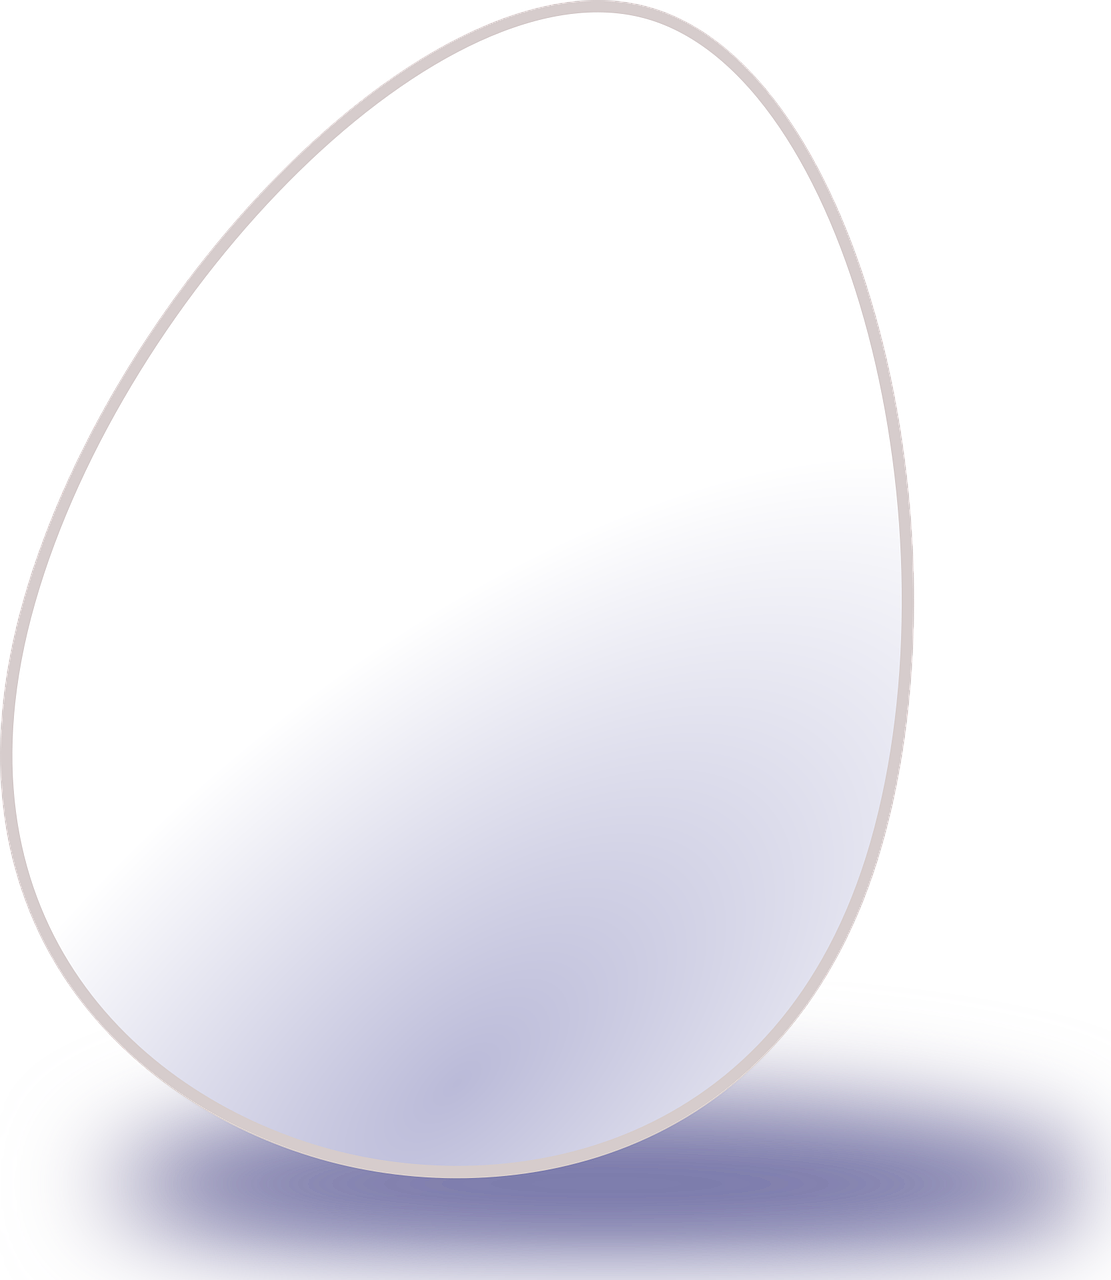
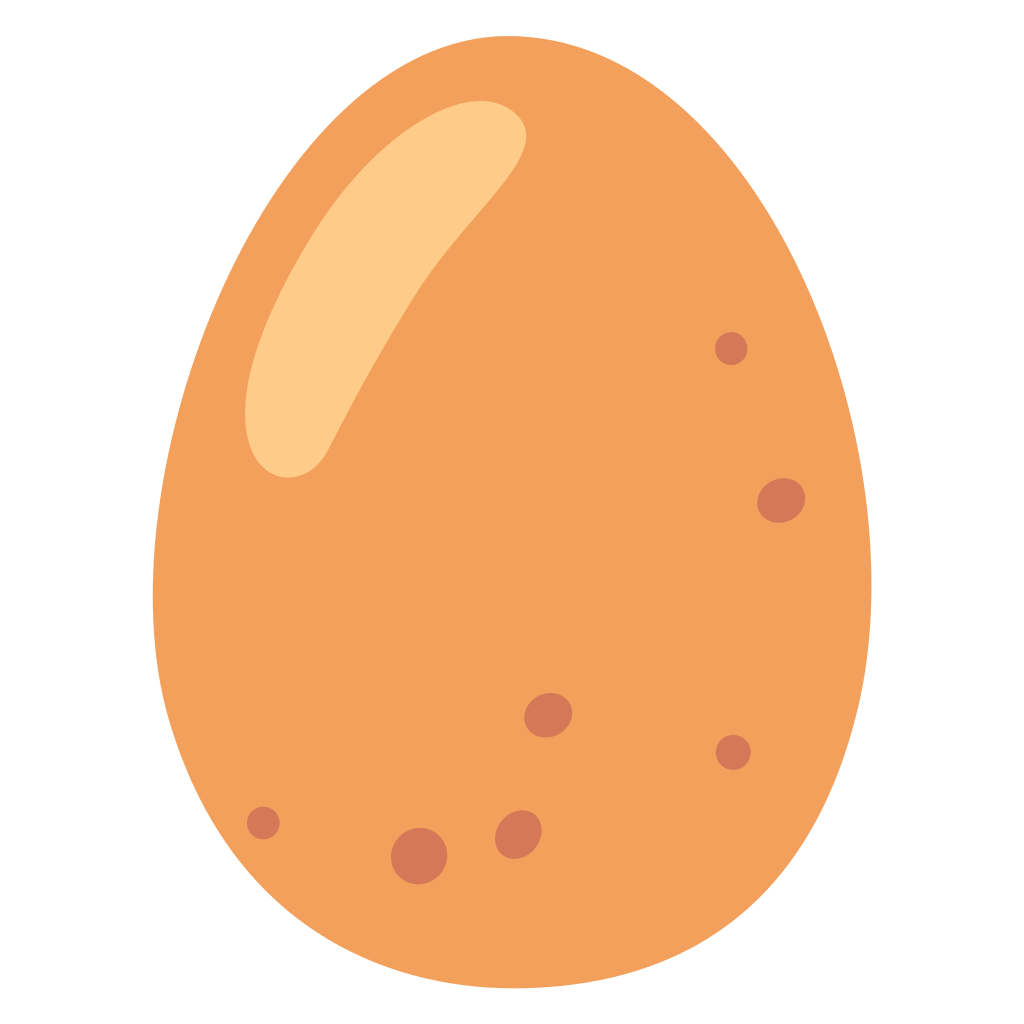
added images

diff --git a/lib/main_page.dart b/lib/main_page.dart
@@ -31,7 +31,7 @@ class HomeScreen extends StatelessWidget {
         icon: "assets/images/rice-bowl.png",
         pageInfo: PageInfo(
             nextPage: EggHomePage(eggOptions: {
-          "White Rice ": {"time": 18 * 60, "color": Colors.pink[100], "assets": "assets/images/soft-boiled-egg.png"},
+          "White Rice ": {"time": 18 * 60, "color": Colors.pink[100], "assets": "assets/images/rice-bowl.png"},
           "Brown Rice": {"time": 45 * 60, "color": Colors.orange[100], "assets": "assets/images/egg.png"},
           "Jasmine Rice": {"time": 15 * 60, "color": Colors.brown[100], "assets": "assets/images/hard-boiled-egg.png"},
           "Basmati Rice": {"time": 20 * 60, "color": Colors.brown[100], "assets": "assets/images/hard-boiled-egg.png"},
